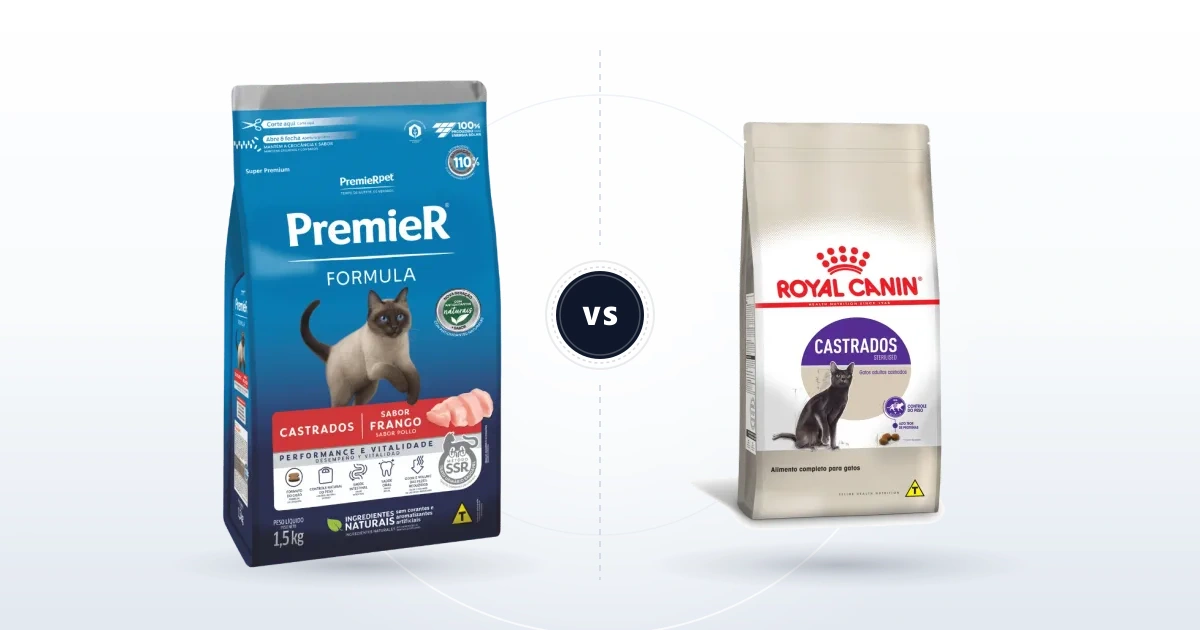
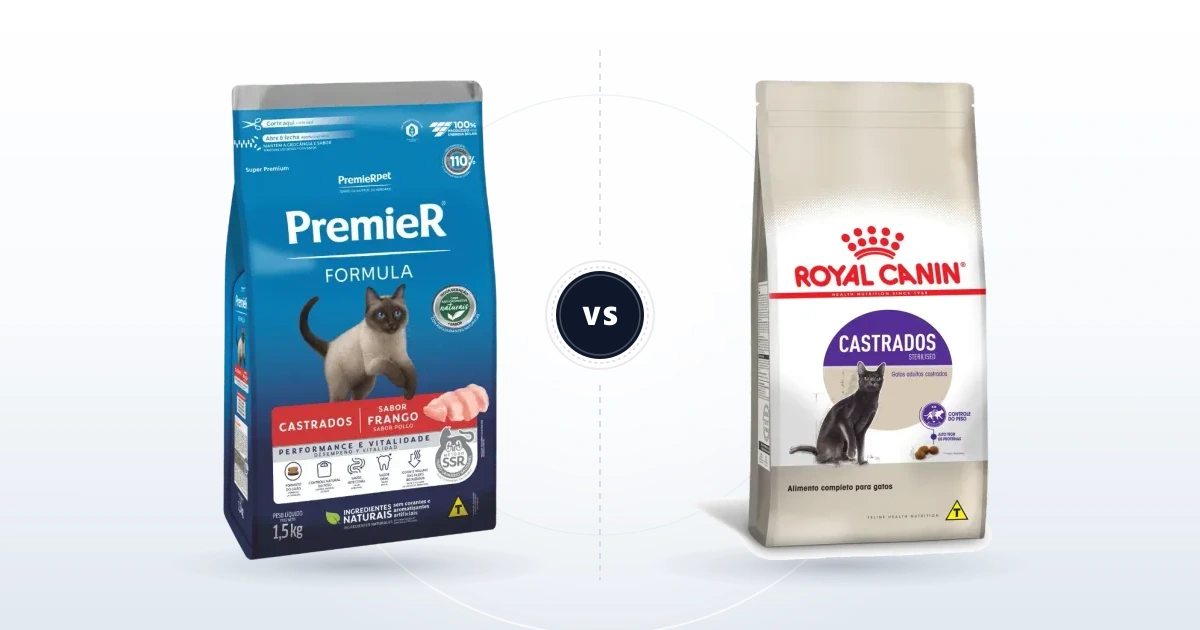
feat(capas): implementa auto-trim e equalização de proporção/altura em todas as capas de duelo

Changed region(s): [[0.5858, 0.1206, 0.8325, 0.9048], [0.185, 0.1206, 0.4317, 0.9048], [0.185, 0.181, 0.2775, 0.2714]]

diff --git a/scripts/gerar-capas-duelo.js b/scripts/gerar-capas-duelo.js
@@ -126,30 +126,56 @@ async function createDuelCover(pack1Path, pack2Path, outputFileName) {
     fs.mkdirSync(outputDir, { recursive: true });
   }
 
+  // 1. Torna transparente qualquer fundo branco opaco
   const p1Buf = await makeWhiteBackgroundTransparent(pack1Path);
   const p2Buf = await makeWhiteBackgroundTransparent(pack2Path);
 
-  const p1Resized = await sharp(p1Buf).resize({ height: 490 }).toBuffer();
+  // 2. Auto-Trim inteligente: recorta 100% das margens transparentes ou vazias
+  // Isso isola a caixa delimitadora (bounding box) física exata do pacote,
+  // eliminando qualquer disparidade de zoom ou enquadramento original da foto.
+  const p1Trimmed = await sharp(p1Buf).trim().toBuffer();
+  const p2Trimmed = await sharp(p2Buf).trim().toBuffer();
+
+  const m1Trimmed = await sharp(p1Trimmed).metadata();
+  const m2Trimmed = await sharp(p2Trimmed).metadata();
+
+  console.log(`[Duelo de Marcas] Pacote 1 (físico recortado): ${m1Trimmed.width}x${m1Trimmed.height}`);
+  console.log(`[Duelo de Marcas] Pacote 2 (físico recortado): ${m2Trimmed.width}x${m2Trimmed.height}`);
+
+  // 3. Altura padrão unificada para ambas as embalagens no palco de confronto
+  const TARGET_HEIGHT = 480;
+
+  // Redimensiona as embalagens recortadas para terem rigorosamente a mesma altura útil
+  const p1Resized = await sharp(p1Trimmed).resize({ height: TARGET_HEIGHT, fit: 'inside' }).toBuffer();
   const m1 = await sharp(p1Resized).metadata();
 
-  const p2Resized = await sharp(p2Buf).resize({ height: 490 }).toBuffer();
+  const p2Resized = await sharp(p2Trimmed).resize({ height: TARGET_HEIGHT, fit: 'inside' }).toBuffer();
   const m2 = await sharp(p2Resized).metadata();
 
+  console.log(`[Duelo de Marcas] Pacote 1 final equalizado: ${m1.width}x${m1.height}`);
+  console.log(`[Duelo de Marcas] Pacote 2 final equalizado: ${m2.width}x${m2.height}`);
+
+  // 4. Alinhamento de base no piso (bottom baseline) para assentamento perfeito sobre as sombras
+  // O piso onde as sombras elípticas de contato estão desenhadas fica em y = 560
+  const floorY = 560;
+  const topY1 = floorY - m1.height;
+  const topY2 = floorY - m2.height;
+
+  // Centralização horizontal nos eixos dos pedestais (x = 360 e x = 840)
   const leftX1 = Math.round(360 - m1.width / 2);
   const leftX2 = Math.round(840 - m2.width / 2);
-  const topY = 80;
 
   const outputPath = path.join(outputDir, outputFileName);
 
   await sharp(Buffer.from(getStudioSvgBg()))
     .composite([
-      { input: p1Resized, top: topY, left: leftX1 },
-      { input: p2Resized, top: topY, left: leftX2 },
+      { input: p1Resized, top: topY1, left: leftX1 },
+      { input: p2Resized, top: topY2, left: leftX2 },
     ])
     .webp({ quality: 94 })
     .toFile(outputPath);
 
-  console.log(`[Duelo de Marcas] Capa gerada com sucesso: ${outputPath}`);
+  console.log(`[Duelo de Marcas] Capa gerada com sucesso e proporções equalizadas: ${outputPath}`);
 }
 
 module.exports = { createDuelCover };
